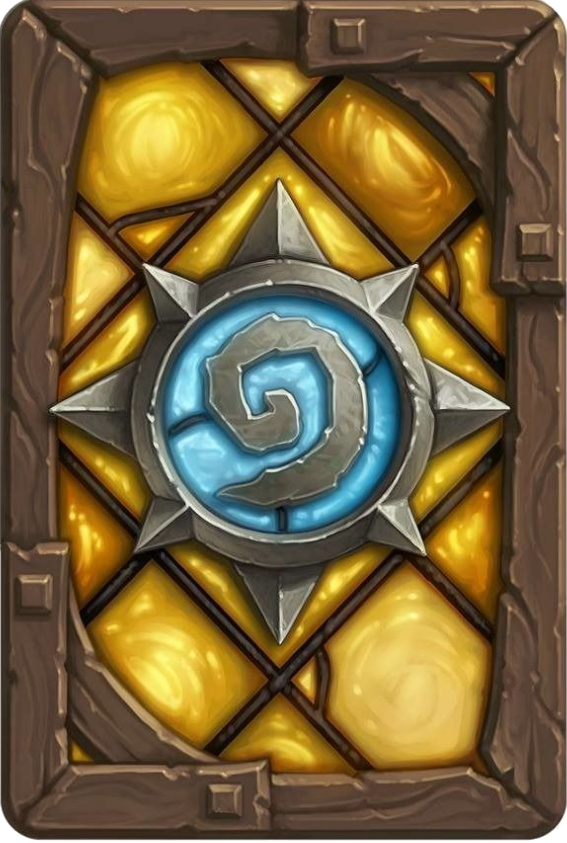
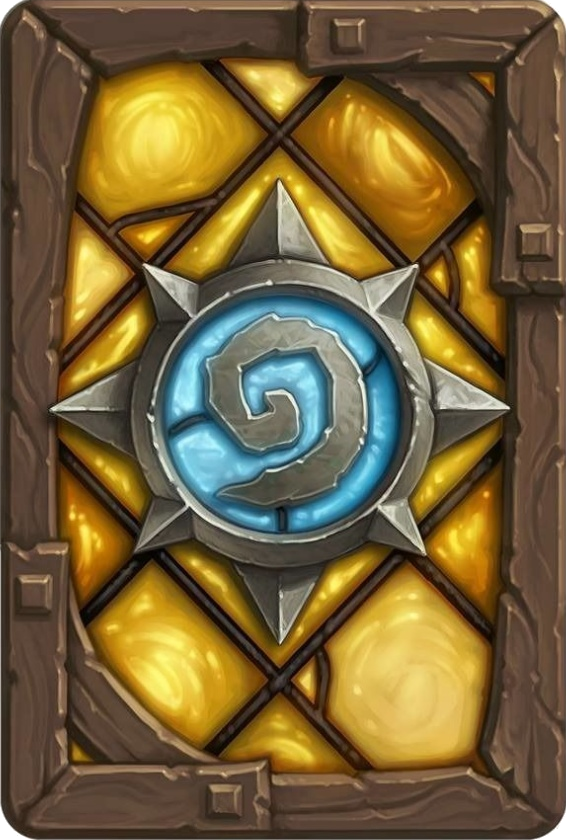
back.png was cropped again to make sure all negative space is removed and the property 'border radius' was changed from 5% to 7% to compensate for remaining negative space at the bottom edges of back.png

diff --git a/assets/styles/style.css b/assets/styles/style.css
@@ -17,7 +17,7 @@ img {
     height: 20vh;
     position: center;
     margin: 20px;
-    border-radius: 5%;
+    border-radius: 7%;
 }
 img:hover{
     z-index: 2;
